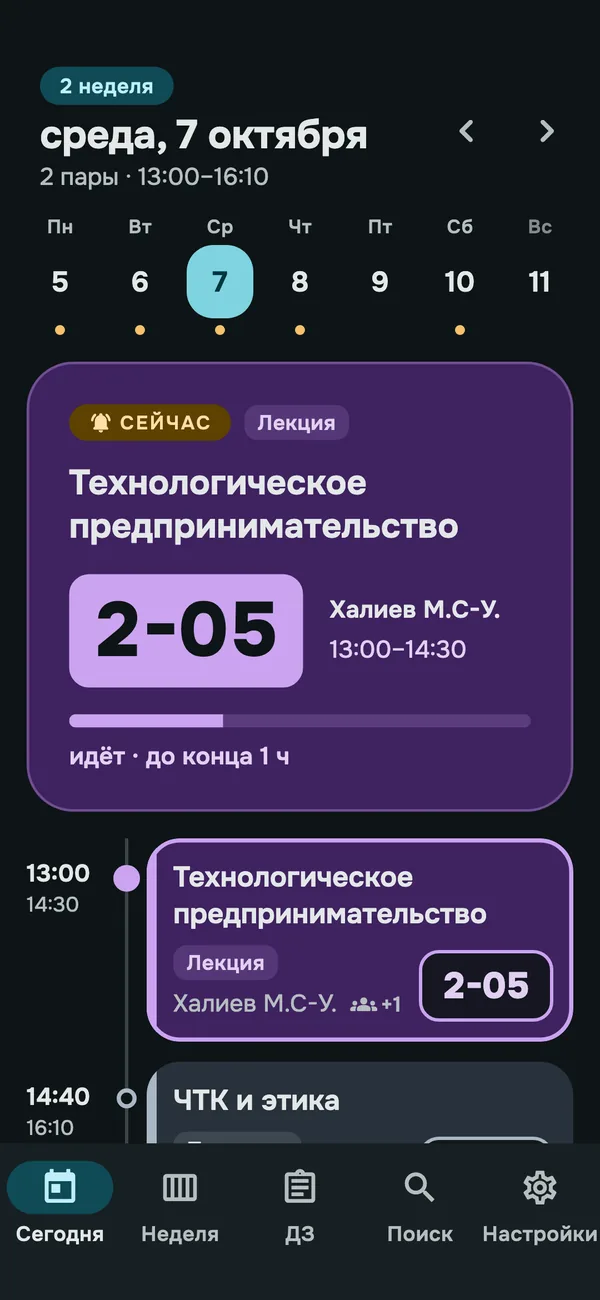
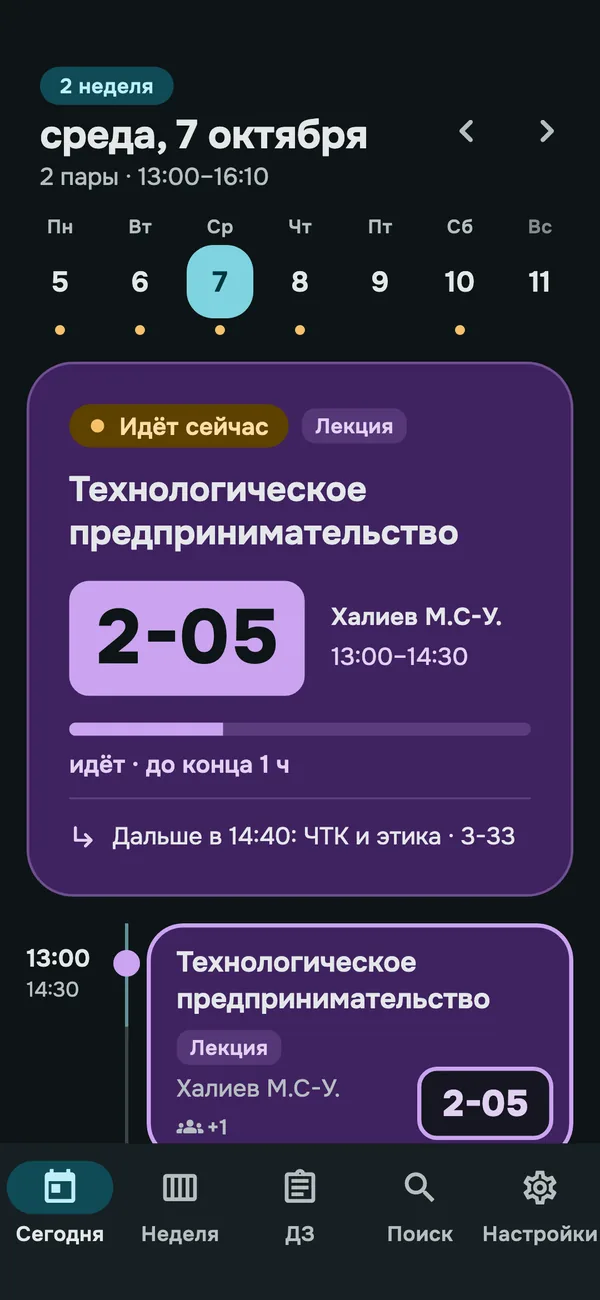
Слияние тестового дизайна в основное; новые картинки на главной странице; одинаковый шрифт в трёхчастном переключателе

Changed region(s): [[0.03, 0.3077, 0.96, 0.8923], [0.03, 0.8308, 0.15, 0.8923]]

diff --git a/app/lib/features/common/sliding_segments.dart b/app/lib/features/common/sliding_segments.dart
@@ -37,7 +37,8 @@ class SlidingSegments<T> extends StatelessWidget {
         .indexWhere((s) => s.value == selected)
         .clamp(0, n - 1);
     final duration = Motion.of(context, const Duration(milliseconds: 380));
-    final labelStyle = Theme.of(context).textTheme.labelLarge!;
+    // когда частей три и больше, шрифт чуть мельче у всех сразу: так длинное слово почти не ужимается и подписи выглядят одинаково
+    final labelStyle = Theme.of(context).textTheme.labelLarge!.copyWith(fontSize: n >= 3 ? 13 : null);
 
     // Material, а не Container: иначе всплеск от нажатия прячется под фоном
     return Material(
@@ -91,7 +92,7 @@ class SlidingSegments<T> extends StatelessWidget {
                             child: Center(
                               child: Padding(
                                 padding: const EdgeInsets.symmetric(
-                                  horizontal: 6,
+                                  horizontal: 3,
                                   vertical: Gap.sm,
                                 ),
                                 child: FittedBox(

diff --git a/app/test/sliding_segments_test.dart b/app/test/sliding_segments_test.dart
@@ -38,11 +38,9 @@ void main() {
       for (final t in ['Преподаватель', 'Аудитория', 'Свободные'])
         tester.getCenter(find.text(t)).dy,
     ];
-    expect(
-      ys.toSet().length,
-      1,
-      reason: 'подписи должны стоять в одной строке',
-    );
+    // допуск 1 px: после ужатия шрифта центры могут отличаться на доли пикселя
+    final spread = ys.reduce((a, b) => a > b ? a : b) - ys.reduce((a, b) => a < b ? a : b);
+    expect(spread, lessThan(1), reason: 'подписи должны стоять в одной строке');
 
     await tester.tap(find.text('Свободные'));
     await tester.pumpAndSettle();

diff --git a/ХОД_РАБОТ.md b/ХОД_РАБОТ.md
@@ -269,4 +269,5 @@ Kotlin-тесты: `cd app/android && ./gradlew :app:testDebugUnitTest` (14 те
   - «Поиск»: подсказки в пустых местах, карточка «Сейчас ведёт…» с точкой, свободные аудитории — таблички, скруглённый список подсказок при вводе, дневные кнопки без галочки.
   - «ДЗ»: число в разделе — в плашке, подсказка в пустой вкладке, «хлопок» кружка при отметке выполненным, плавная смена цвета полосы.
   - «Сегодня»: «На сегодня всё» — мягкая карточка; пустые состояния появляются плавно.
-- Когда тест понравится: слить `design-test` в `main` (`git merge design-test`), ветку можно удалить, тест исчезнет сам.
+- **Итог (2026-10-12): влито в основное.** Владелец одобрил тест; `design-test` слита в `main`, ветка удалена, обновлённый вид теперь на `/app/` и в Android. Выпуск v0.2.1 (вместе с новым дизайном виджетов). Пустые экраны «ДЗ» и «Поиск» переделаны в рисунки в стиле «Сегодня» (`illustrations.dart`: `searchTeacher`, `searchRoom`, `groupHomework`). Картинки на главной странице сайта заменены на снимки нового вида (`flutter test tool/screenshots_test.dart --plain-name landing`, затем `data/tools/make_landing_assets.py`; `og.png` и шрифт не трогали).
+- Шаг «Тестовая версия» в `publish-schedule.yml` остался: для нового теста достаточно создать ветку `design-test` и запустить публикацию вручную (Actions → Run workflow). Если ветки нет, шаг ничего не делает.
